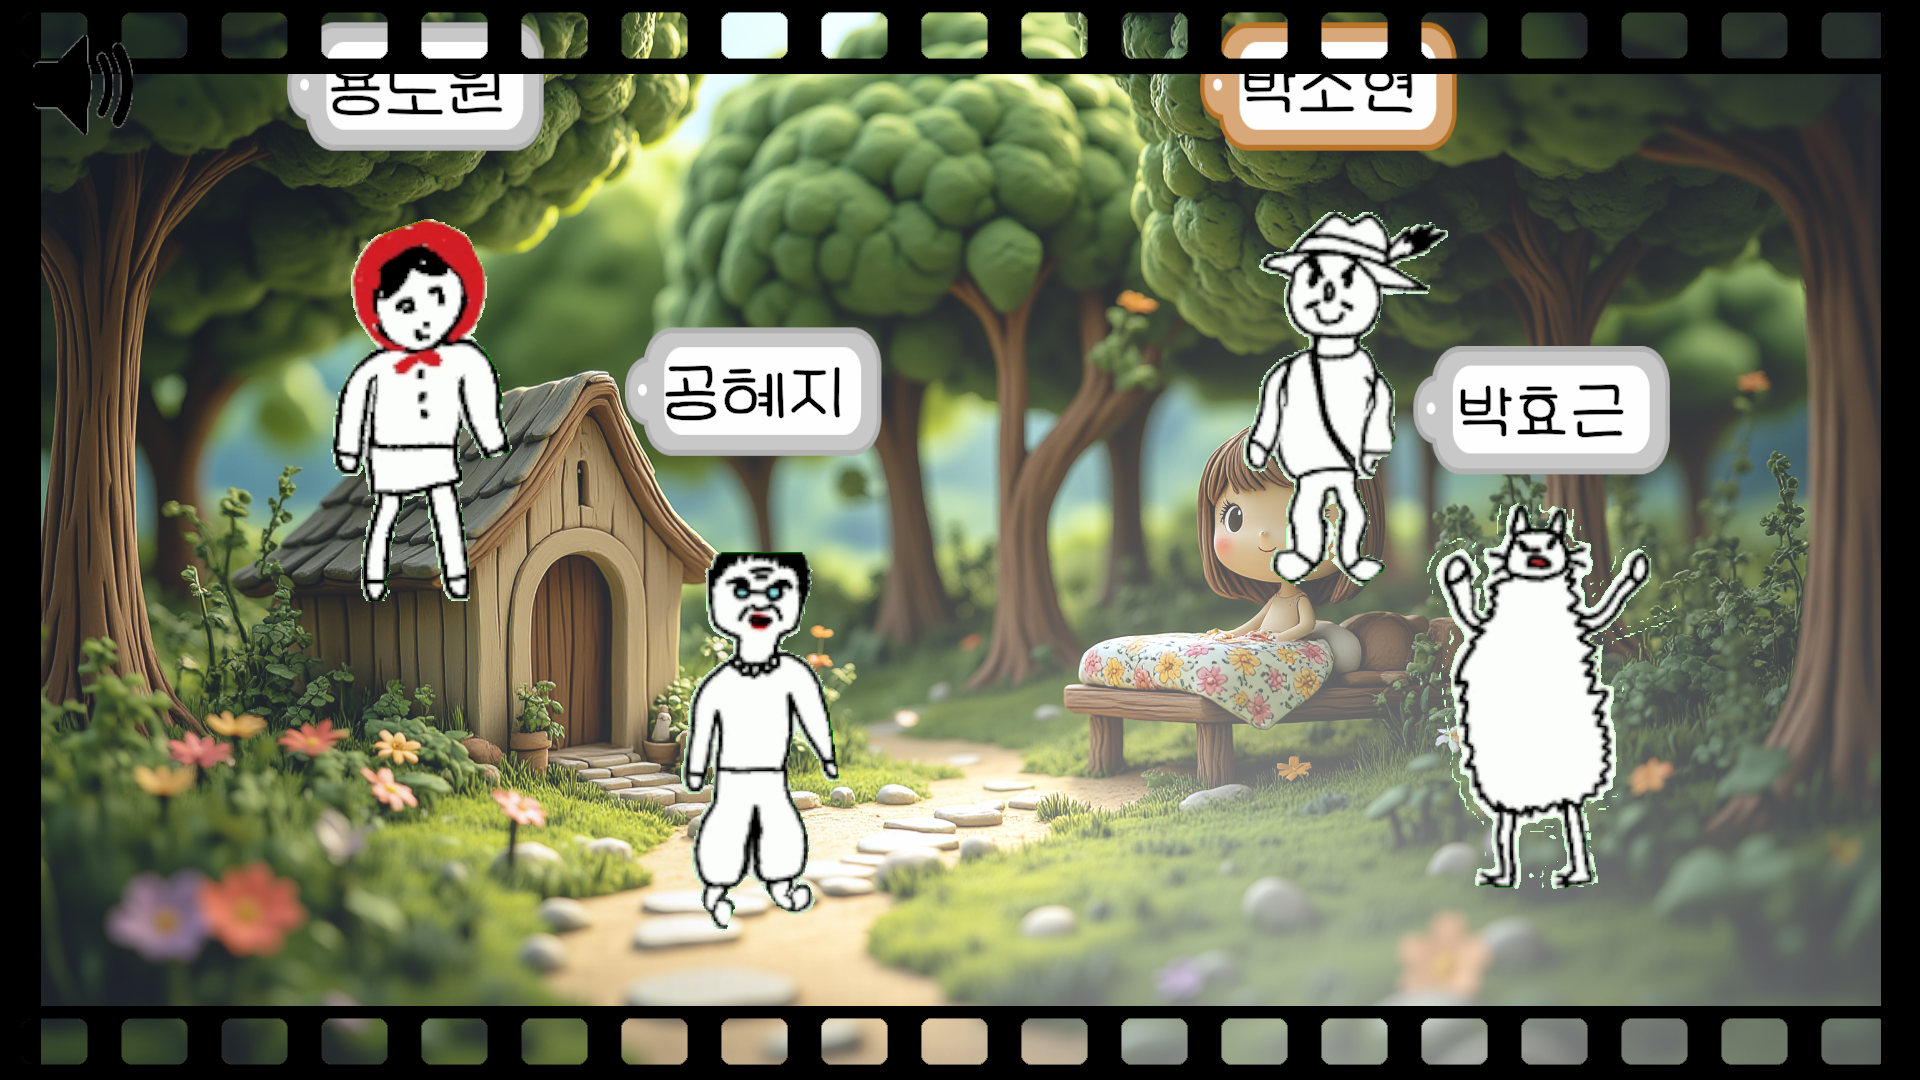
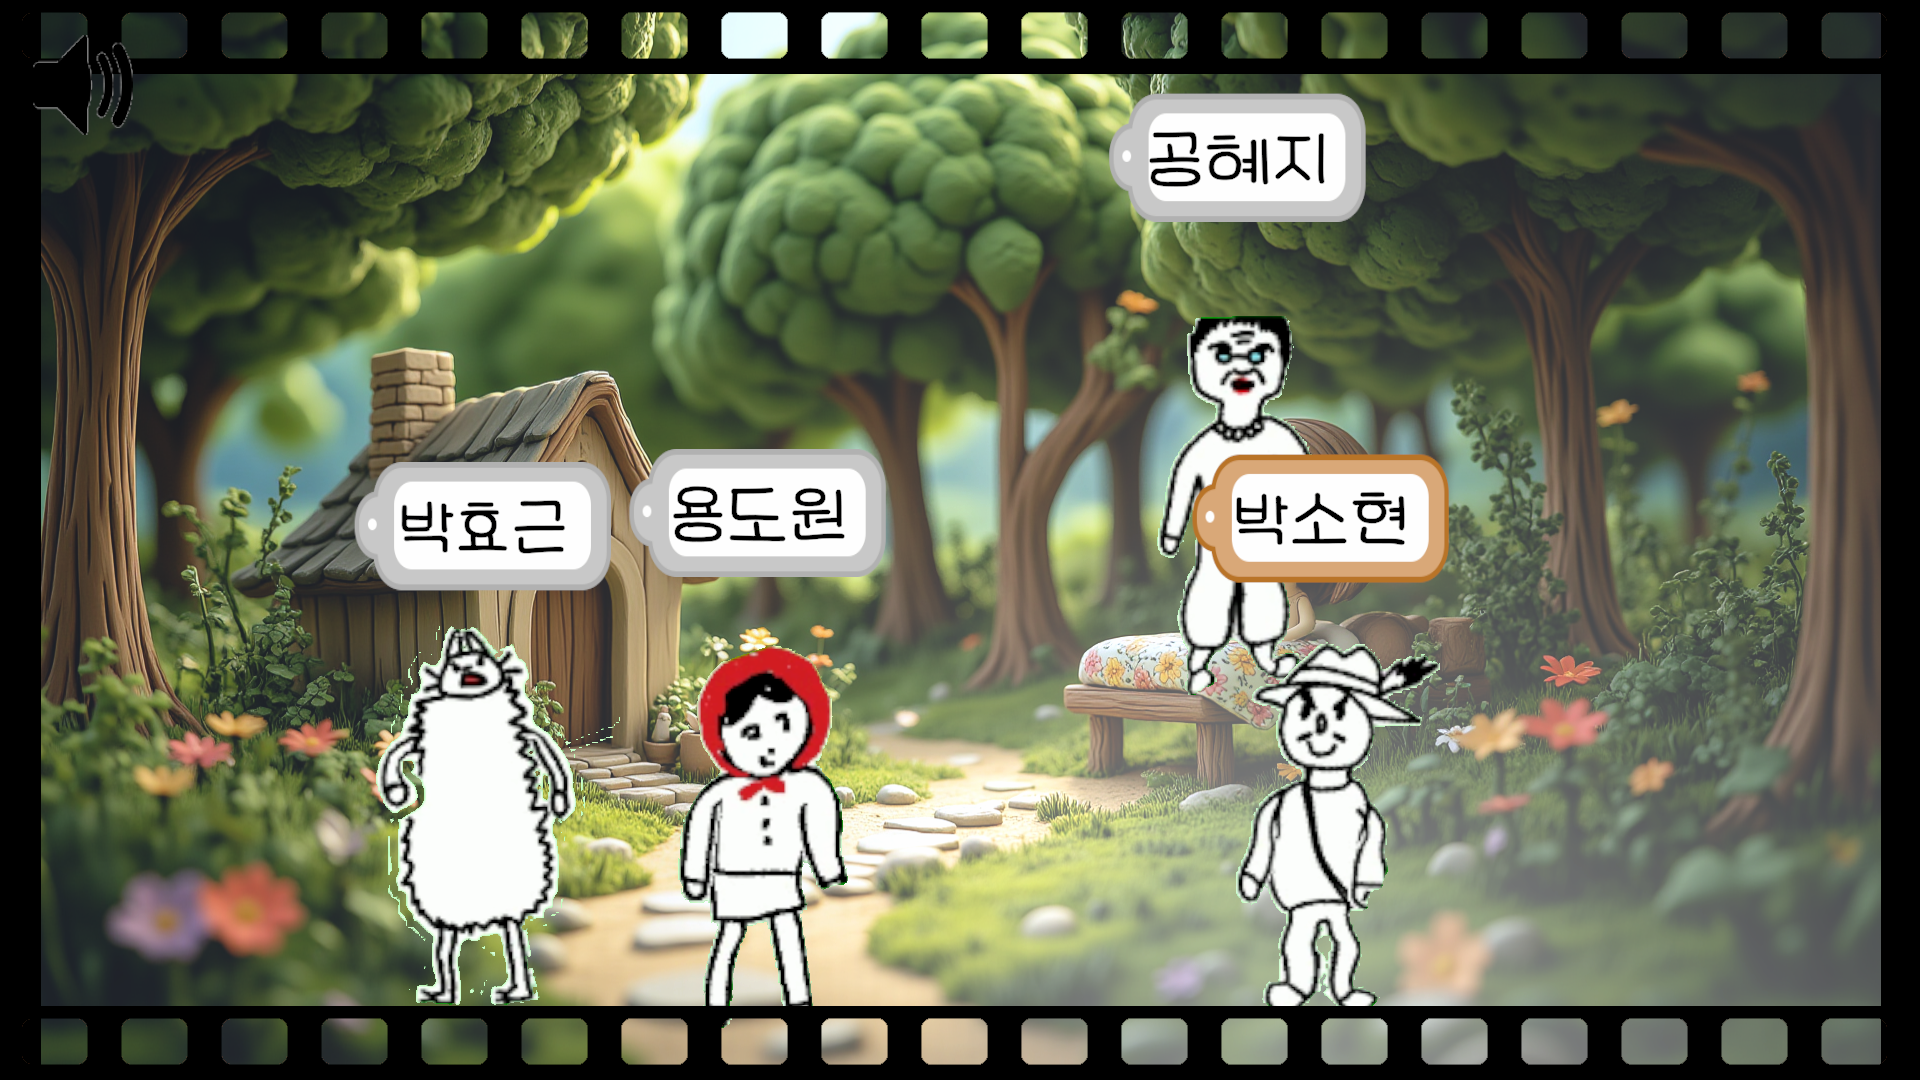
퀴즈 스폰 - 시연용으로 고정시킴

diff --git a/Assets/Hz/Scripts/K_QuizSpawnMgr.cs b/Assets/Hz/Scripts/K_QuizSpawnMgr.cs
@@ -64,13 +64,17 @@ public class K_QuizSpawnMgr : MonoBehaviourPun
         }
     }
 
+    public Transform[] spawnPoints;
 
     IEnumerator SpawnObj(string obj, int idx)
     {
         print("스폰옵젝 호출됨");
-        Vector3 center = quiz_spawnCenter[idx];
-        Vector3 size = quiz_spawnSize[idx];
-        Vector3 randomPos = GetRandomPosInArea(center, size);
+        //Vector3 center = quiz_spawnCenter[idx];
+        //Vector3 size = quiz_spawnSize[idx];
+        //Vector3 randomPos = GetRandomPosInArea(center, size);
+
+        ////// 시연 때 고정으로 퀴즈 스폰할 것
+        Vector3 spawnPosition = spawnPoints[idx].position;
 
         // Resources 폴더에서 quizName으로 프리팹을 로드하고 PhotonNetwork.Instantiate로 생성
         GameObject quizPrefab = Resources.Load<GameObject>(obj);
@@ -78,7 +82,7 @@ public class K_QuizSpawnMgr : MonoBehaviourPun
         // 퀴즈 프리팹 있다면
         if (quizPrefab != null)
         {
-            GameObject quizInstance = PhotonNetwork.Instantiate(obj, randomPos, Quaternion.identity);
+            GameObject quizInstance = PhotonNetwork.Instantiate(obj, spawnPosition, Quaternion.identity);
             //yield return new WaitForSeconds(2f);
             yield return new WaitUntil(() => quizInstance != null);
             print("퀴즈 인스턴스 생성");
